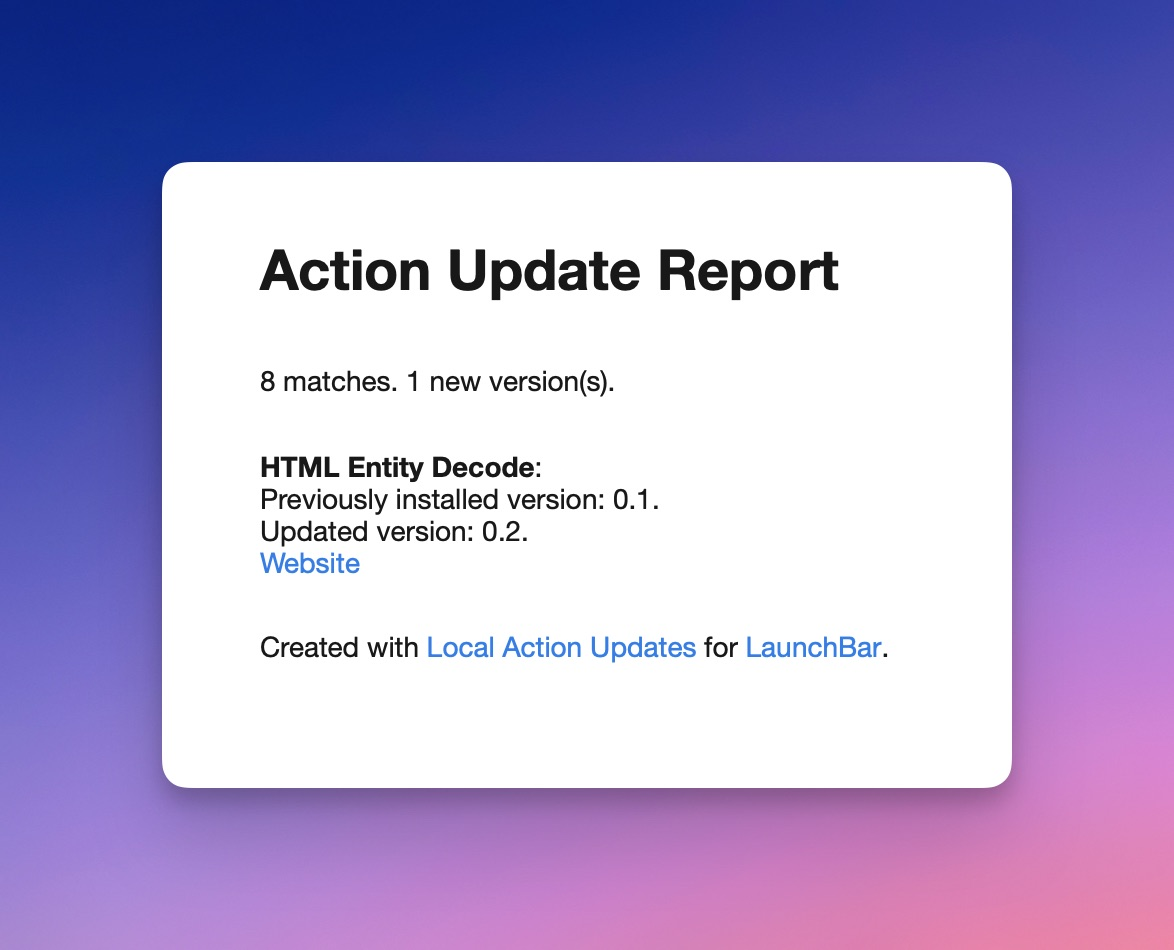
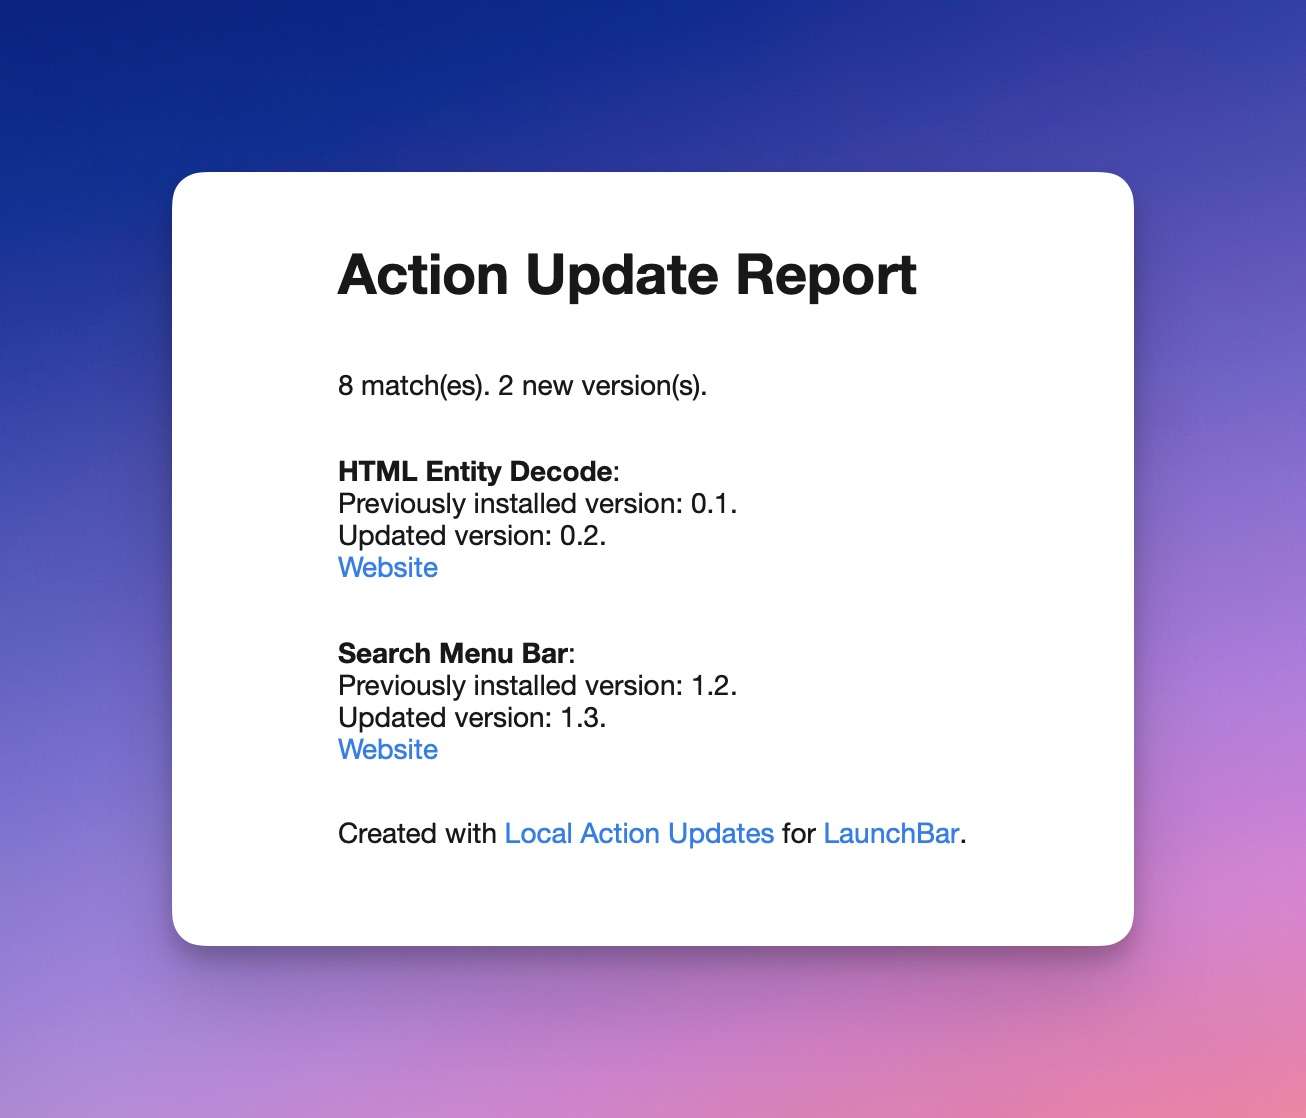
Update Readme/Screenshots

diff --git a/Local-Action-Updates/README.md b/Local-Action-Updates/README.md
@@ -2,13 +2,15 @@
 
 *[→ See a list of all my actions here.](https://ptujec.github.io/launchbar)*
 
-<img src="01.jpg" width="587"/>
+<img src="01.jpg" width="653"/>
 
 Updating LaunchBar Actions is an unsolved problem. [Padraic built an action to make it a little easier](https://renaghan.com/launchbar/action-updates/). Most of my actions are compatible with his update action. But it can take quite some time if you have a lot of actions installed.
 
 This new action takes a different approach. It is not ideal either. But it might be helpful in some cases. **The idea is to download (or clone) a whole Github repo of actions. Then this action compares the actions in the folder with your installed actions. If the version numbers don't match, the installed action will be replaced with the downloaded version.**
  
 You can let the action replace all matching actions at once or decide individually.
+
+<img src="02.jpg" width="653"/>
 
 If you use [my actions](https://ptujec.github.io/launchbar), I would recommend using this action every once in a while since I am trying to regularly improve my actions.
 
